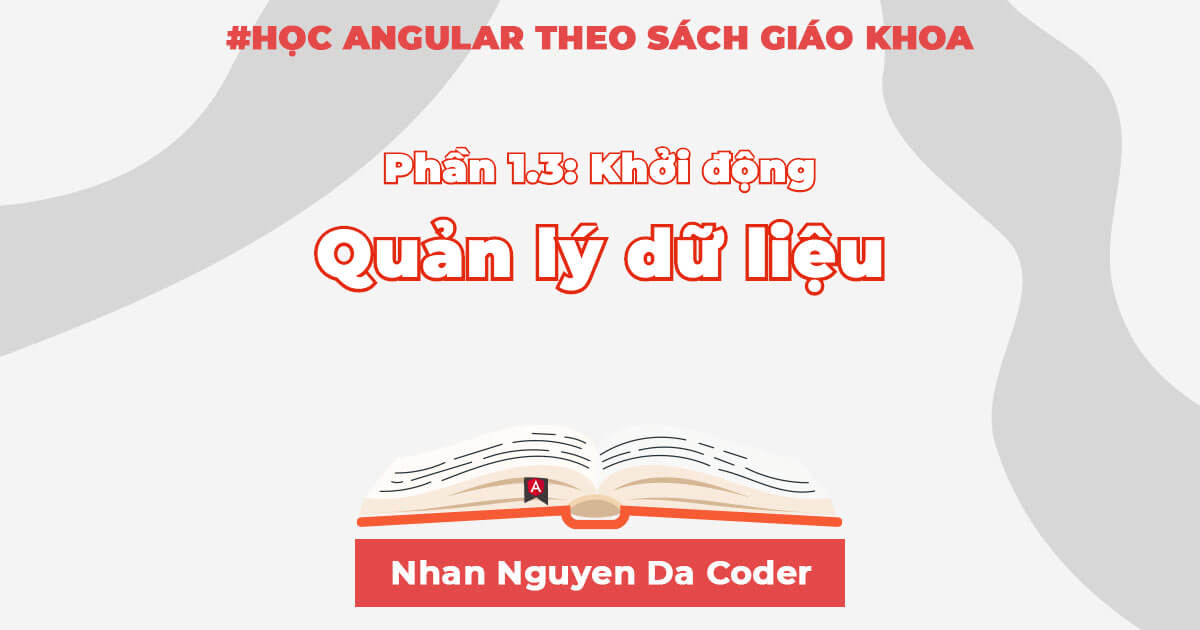
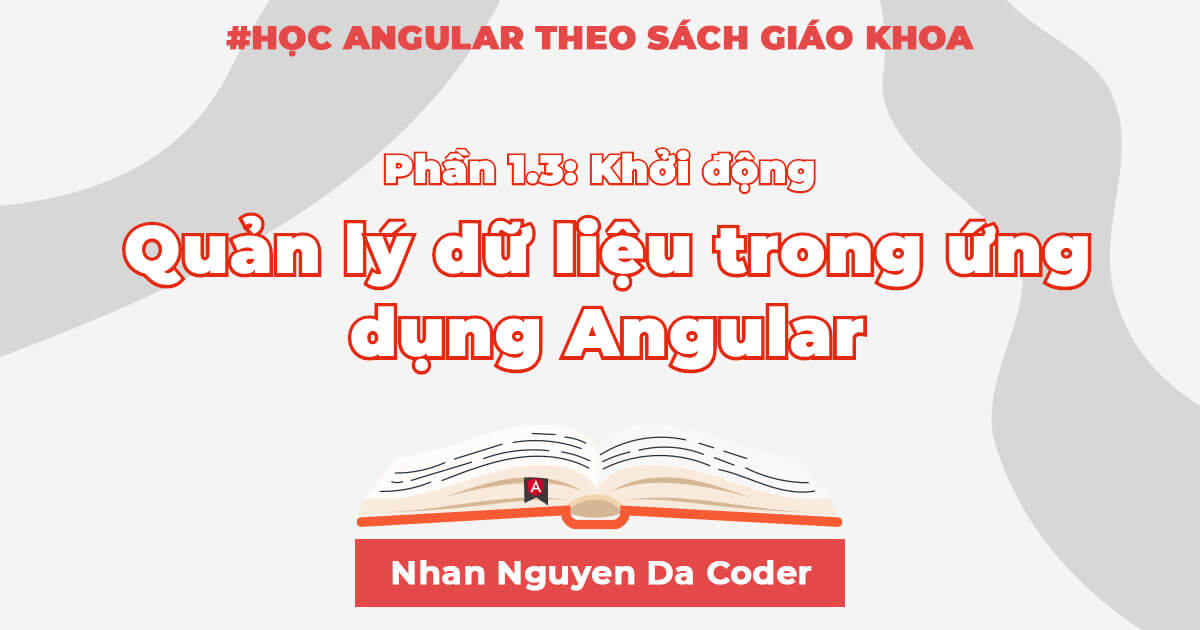
- fix images - add page images - add post images - update title

Changed region(s): [[0.0925, 0.2111, 0.925, 0.6032]]

diff --git a/blog/angular/sgk/start/start-forms.md b/blog/angular/sgk/start/start-forms.md
@@ -32,36 +32,36 @@ Reactive form bao gồm 2 phần: các object trong component để quản lý v
 
     a. Import service `FormBuilder` từ package `@angular/forms`.
 
-        ```typescript
-        // src/app/cart/cart.component.ts
+    ```typescript
+    // src/app/cart/cart.component.ts
 
-        import { Component, OnInit } from '@angular/core';
-        import { FormBuilder } from '@angular/forms';
+    import { Component, OnInit } from '@angular/core';
+    import { FormBuilder } from '@angular/forms';
 
-        import { CartService } from '../cart.service';
-        ```
+    import { CartService } from '../cart.service';
+    ```
 
     Module `ReactiveFormsModule` đã được import sẵn trong `AppModule` (file `app.module.ts`) chính là nới khai báo service `FormBuilder`.
 
     b. Inject service `FormBuilder` vào component `CartComponent`.
 
-        ```typescript
-        // src/app/cart/cart.component.ts
+    ```typescript
+    // src/app/cart/cart.component.ts
 
-        export class CartComponent implements OnInit {
-            items;
+    export class CartComponent implements OnInit {
+        items;
 
-            constructor(
-                private cartService: CartService,
-                private formBuilder: FormBuilder,
-            ) {
-            }
-
-            ngOnInit() {
-                this.items = this.cartService.getItems();
-            }
+        constructor(
+            private cartService: CartService,
+            private formBuilder: FormBuilder,
+        ) {
         }
-        ```
+
+        ngOnInit() {
+            this.items = this.cartService.getItems();
+        }
+    }
+    ```
 
 3. Trong component `CartComponent`, khai báo thuộc tính `checkoutForm` để lưu trữ phần form được khai báo ở trong component.
 
@@ -215,4 +215,4 @@ Sau khi thêm một vài sản phẩm vào giỏ hàng, người dùng có thể
 
 ## Tiếp theo
 
-* [Đi đến phần triển khai ứng dụng](https://angular.io/start/start-deployment "Try it: Deployment") để tìm hiểu các phát triển ứng dụng ở môi trường máy cá nhân, hoặc triển khai ứng dụng lên Firebase hay là server của bạn.
+* [Đi đến phần triển khai ứng dụng](https://nhannguyendacoder.com/blog/angular/sgk/start/start-deployment "Try it: Deployment") để tìm hiểu các phát triển ứng dụng ở môi trường máy cá nhân, hoặc triển khai ứng dụng lên Firebase hay là server của bạn.

diff --git a/blog/page/angular-sgk.md b/blog/page/angular-sgk.md
@@ -9,6 +9,8 @@ image: assets/images/page/angular-sgk/page-image.jpg
 
 # Học Angular theo "Sách Giáo Khoa"
 
+![page-image](assets/images/page/angular-sgk/page-image.jpg)
+
 Đây là loạt bài viết hướng dẫn tự học lập trình Angular từ căn bản đến nâng cao. Các bài viết được dịch lại từ tài liệu hướng dẫn chính thức của Google trên https://angular.io.
 
 ## Nội dung
@@ -17,10 +19,10 @@ image: assets/images/page/angular-sgk/page-image.jpg
 - [Phần 0: Giới thiệu](https://nhannguyendacoder.com/blog/angular/sgk/marketing/docs)
 - [Phần 1.1: Khởi Động - Tìm hiểu một ứng dụng Angular đơn giản](https://nhannguyendacoder.com/blog/angular/sgk/start/index)
 - [Phần 1.2: Khởi Động - Điều hướng trong ứng dụng Angular](https://nhannguyendacoder.com/blog/angular/sgk/start/start-routing)
-- [Phần 1.3: Khởi Động - Quản lý dữ liệu](https://nhannguyendacoder.com/blog/angular/sgk/start/start-data)
+- [Phần 1.3: Khởi Động - Quản lý dữ liệu trong ứng dụng Angular](https://nhannguyendacoder.com/blog/angular/sgk/start/start-data)
 - [Phần 1.4: Khởi Động - Sử dụng form trong Angular](https://nhannguyendacoder.com/blog/angular/sgk/start/start-forms)
-
-- Nội dung đang được tiếp tục cập nhật
+- [Phần 1.5: Khởi Động - Triển khai ứng dụng Angular](https://nhannguyendacoder.com/blog/angular/sgk/start/start-deployment)
+- [Phần 1.6: Khởi Động - Cài đặt môi trường cho Angular trên máy cá nhân](https://nhannguyendacoder.com/blog/angular/sgk/guide/setup-local)
 
 ### Tutorial
 - Nội dung đang được tiếp tục cập nhật

diff --git a/blog/angular/sgk/start/start-data.md b/blog/angular/sgk/start/start-data.md
@@ -1,5 +1,5 @@
 ---
-title: 'Học Angular theo SGK - Phần 1.3: Khởi Động - Quản lý dữ liệu'
+title: 'Học Angular theo SGK - Phần 1.3: Khởi Động - Quản lý dữ liệu trong ứng dụng Angular'
 description: 'Hướng dẫn tạo tính năng giỏ hàng và sử dụng service.'
 published: true
 keywords: 'angular, angular sgk, hoc angular theo sach giao khoa'
@@ -7,7 +7,7 @@ categories: angular
 date: 2020-09-30
 image: assets/images/angular/sgk/guide/start/start-data-image.jpg
 ---
-# Học Angular theo SGK - Phần 1.3: Khởi Động - Quản lý dữ liệu
+# Học Angular theo SGK - Phần 1.3: Khởi Động - Quản lý dữ liệu trong ứng dụng Angular
 
 ![post-image](assets/images/angular/sgk/guide/start/start-data-image.jpg)
 
@@ -727,4 +727,4 @@ Bây giờ bạn đã có thể truy suất phí giao hàng, hãy tạo một co
 
 Để tiếp tục khám phá Angular, bạn có thể chọn một trong các lựa chọn sau:
 * [Tiến tục đi đến phần "Forms"](start/start-forms "Try it: Forms for User Input") để thêm tính năng form thanh toán cho ứng dụng.
-* [Đi đến phần triển khai ứng dụng](https://angular.io/start/start-deployment "Try it: Deployment") để tìm hiểu các phát triển ứng dụng ở môi trường máy cá nhân, hoặc triển khai ứng dụng lên Firebase hay là server của bạn.
+* [Đi đến phần triển khai ứng dụng](https://nhannguyendacoder.com/blog/angular/sgk/start/start-deployment "Try it: Deployment") để tìm hiểu các phát triển ứng dụng ở môi trường máy cá nhân, hoặc triển khai ứng dụng lên Firebase hay là server của bạn.

diff --git a/blog/angular/sgk/start/start-routing.md b/blog/angular/sgk/start/start-routing.md
@@ -183,4 +183,4 @@ Trong phần này bạn đã sử dụng phần điều hướng của Angular t
 
 Để tiếp tục khám phá Angular, bạn có thể chọn một trong các lựa chọn sau:
 * [Tiếp tục đến phần quản lý dữ liệu](https://angular.io/start/start-data "Try it: Managing Data") để thêm chức năng giỏ hàng, dùng một service để quản lý thông tin của giỏ hàng và dùng HTTP để truy xuất thông tin phí giao hàng từ bên ngoài.
-* [Đi đến phần triển khai ứng dụng](https://angular.io/start/start-deployment "Try it: Deployment") để tìm hiểu các phát triển ứng dụng ở môi trường máy cá nhân, hoặc triển khai ứng dụng lên Firebase hay là server của bạn.
+* [Đi đến phần triển khai ứng dụng](https://nhannguyendacoder.com/blog/angular/sgk/start/start-deployment "Try it: Deployment") để tìm hiểu các phát triển ứng dụng ở môi trường máy cá nhân, hoặc triển khai ứng dụng lên Firebase hay là server của bạn.

diff --git a/blog/page/about.md b/blog/page/about.md
@@ -8,6 +8,8 @@ image: assets/images/page/about/page-image.jpg
 ---
 # Nhan Nguyen Da Coder
 
+![page-image](assets/images/page/about/page-image.jpg)
+
 Xin chào, mình là Nhân Nguyễn. Mình viết blog hướng dẫn lập trình web dành cho người tự học lập trình.
 
 Nội dung blog chủ yếu chia sẻ về **Cách tự học lập trình từ cơ bản** theo kinh nghiệm của chính bản thân mình, cũng như hướng dẫn các công nghệ lập trình web như HTML, CSS, Javascript, Bootstrap, Angular, Nodejs, Mongodb, Postgresql,...
